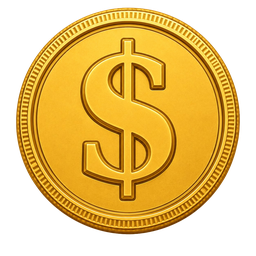
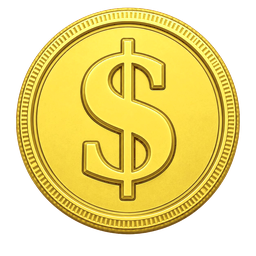
Coin recoloured to approved yellow; Food Stacker splash re-centred (Play uniform with other games)

diff --git a/UberStacker/index.html b/UberStacker/index.html
@@ -145,11 +145,12 @@
   /* Start screen: reserve the bottom-left corner for the rider so the numbered steps + Play
      button always sit clear of him (the long step-1 text used to overlap him on iPhone 16 Pro).
      safe center keeps the content from clipping at the top on short viewports. */
-  /* Play now sits at the bottom (uniform with the other screens), which frees the space that
-     was under it to breathe between the preview and the instructions. */
-  #howOv { justify-content: flex-start; padding-bottom: max(18px, env(safe-area-inset-bottom)); }
-  #howOv .htSteps { margin-top: 18px !important; }
-  #howOv .htActions { margin-top: auto; width: 100%; display: flex; justify-content: center; }
+  /* The whole splash block is vertically centred, matching Combo and Path Picker: balanced space
+     above the logo and below Play, rather than Play pinned to the bottom of the screen.
+     (Bottom-anchoring it left a big dead gap on tall phones. Ant, 2026-08-06.) */
+  #howOv { justify-content: safe center; padding-bottom: max(18px, env(safe-area-inset-bottom)); }
+  #howOv .htSteps { margin-top: 16px !important; }
+  #howOv .htActions { margin-top: 18px !important; width: 100%; display: flex; justify-content: center; }
   .overlay h1 { font-size: 30px; font-weight: 900; line-height: 1.1; }
   .overlay h1 .e { color: var(--green); }
   .overlay p { font-size: 14px; opacity: .8; line-height: 1.55; max-width: 320px; }

diff --git a/Multi-View-Screen/10ten.html b/Multi-View-Screen/10ten.html
@@ -1055,7 +1055,7 @@ function showOverlay(kind) {
         <span class="emoji" style="display:none">${CONFIG.items[CONFIG.target].emoji}</span>
       </div>
       <h2>You did it!</h2>
-      <p>You completed the side quest and topped up <img class="coin-inline" src="coin.png?v=3" alt="points"></p>
+      <p>You completed the side quest and topped up <img class="coin-inline" src="coin.png?v=4" alt="points"></p>
       <p class="swipes-line">Delivered in <b>${state.moves}</b> swipe${state.moves === 1 ? "" : "s"}</p>
       ${miniScores()}
       <div class="btn-row">
